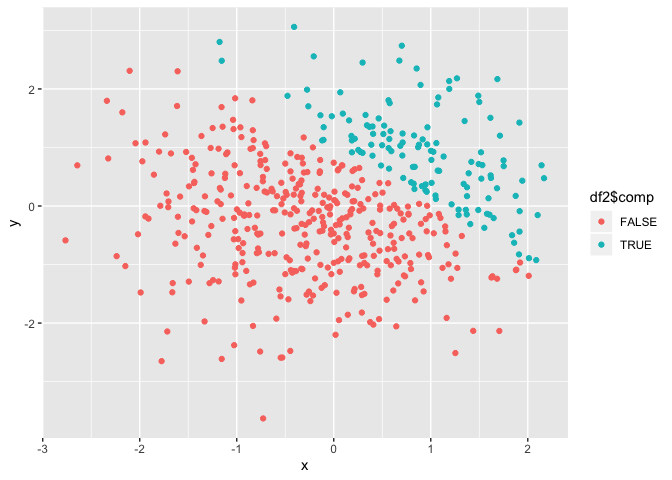
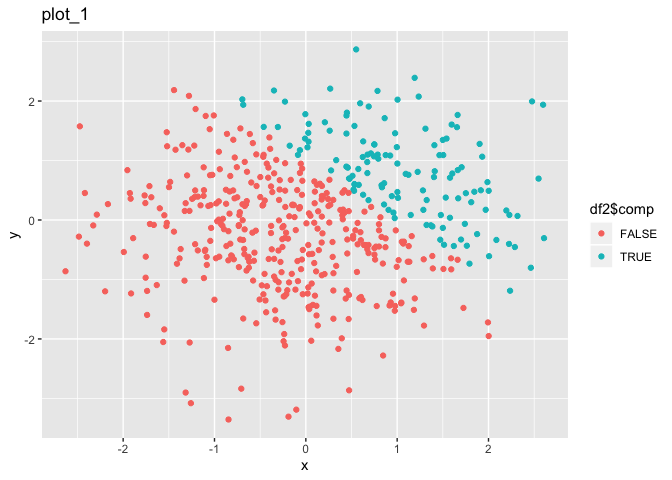
hhh

diff --git a/p8105_hw1_xs2384.md b/p8105_hw1_xs2384.md
@@ -8,14 +8,14 @@ Problem 1
 library(tidyverse)
 ```
 
-    ## ── Attaching packages ──────────────────────────────────────────────────────────────────────────────────────────────── tidyverse 1.2.1 ──
+    ## ── Attaching packages ───────────────────────────────────────────────────────────────────────────────────── tidyverse 1.2.1 ──
 
     ## ✔ ggplot2 3.2.1     ✔ purrr   0.3.2
     ## ✔ tibble  2.1.3     ✔ dplyr   0.8.3
     ## ✔ tidyr   0.8.3     ✔ stringr 1.4.0
     ## ✔ readr   1.3.1     ✔ forcats 0.4.0
 
-    ## ── Conflicts ─────────────────────────────────────────────────────────────────────────────────────────────────── tidyverse_conflicts() ──
+    ## ── Conflicts ──────────────────────────────────────────────────────────────────────────────────────── tidyverse_conflicts() ──
     ## ✖ dplyr::filter() masks stats::filter()
     ## ✖ dplyr::lag()    masks stats::lag()
 
@@ -30,13 +30,13 @@ df <- tibble(
 mean(pull(df, norm_sp))
 ```
 
-    ## [1] -0.2869811
+    ## [1] -0.07133894
 
 ``` r
 mean(pull(df, logi_vec))
 ```
 
-    ## [1] 0.375
+    ## [1] 0.5
 
 ``` r
 mean(pull(df, chr_vec))
@@ -72,8 +72,8 @@ This does explain why the mean function was failed on these variables. The mean 
 as.numeric(df$logi_vec) * df$norm_sp
 ```
 
-    ## [1] 0.000000000 1.470709370 0.000000000 0.000000000 0.000000000 0.000000000
-    ## [7] 0.008699221 0.507922490
+    ## [1] 0.0000000 1.5198147 0.6123010 0.2508754 0.0000000 0.5864661 0.0000000
+    ## [8] 0.0000000
 
 ``` r
 as.factor(df$logi_vec) * df$norm_sp
@@ -88,8 +88,8 @@ as.factor(df$logi_vec) * df$norm_sp
 as.numeric(as.factor(df$logi_vec)) * df$norm_sp
 ```
 
-    ## [1] -0.28581713  2.94141874 -0.27283776 -0.23525162 -0.66528137 -2.82399172
-    ## [7]  0.01739844  1.01584498
+    ## [1] -0.7361518  3.0396294  1.2246020  0.5017507 -1.2641338  1.1729323
+    ## [7] -0.7007104 -0.8391728
 
 Problem 2
 ---------
@@ -106,14 +106,14 @@ df2 <- tibble(
 
 The size of datasets is 500 rows, and 5 colunms.
 
-The mean, median and standard deviation of variable x is -0.0589408, -0.1021729 and 1.0096813.
+The mean, median and standard deviation of variable x is 0.033683, 0.0389861 and 1.0013341.
 
-The proportion of cases for wich x + y &gt; 1 is : 0.224.
+The proportion of cases for wich x + y &gt; 1 is : 0.222.
 
 ``` r
-plot_1 <- ggplot(df2, aes(x = x, y = y, color = df2$comp)) + geom_point()
-plot_2 <- ggplot(df2, aes(x = x, y = y, color = df2$coer_lton)) + geom_point()
-plot_3 <- ggplot(df2, aes(x = x, y = y, color = df2$coer_ltof)) + geom_point()
+plot_1 <- ggplot(df2, aes(x = x, y = y, color = df2$comp)) + geom_point() + ggtitle("plot_1")
+plot_2 <- ggplot(df2, aes(x = x, y = y, color = df2$coer_lton)) + geom_point() + ggtitle("plot_2")
+plot_3 <- ggplot(df2, aes(x = x, y = y, color = df2$coer_ltof)) + geom_point() + ggtitle("plot_3")
 ggsave('HW1_plot.pdf',plot = plot_1)
 ```
 
